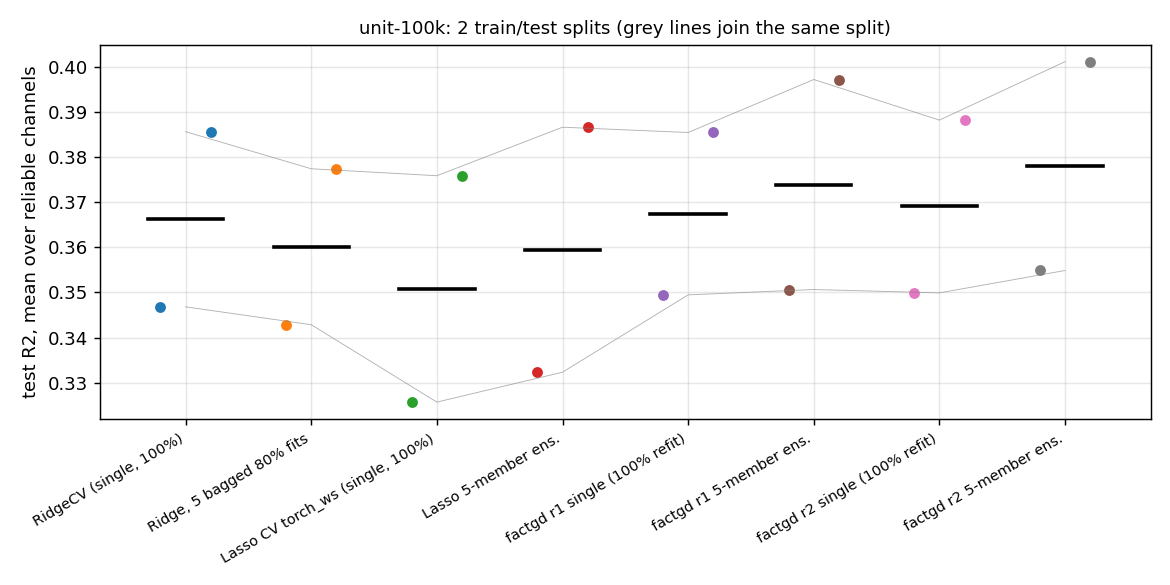
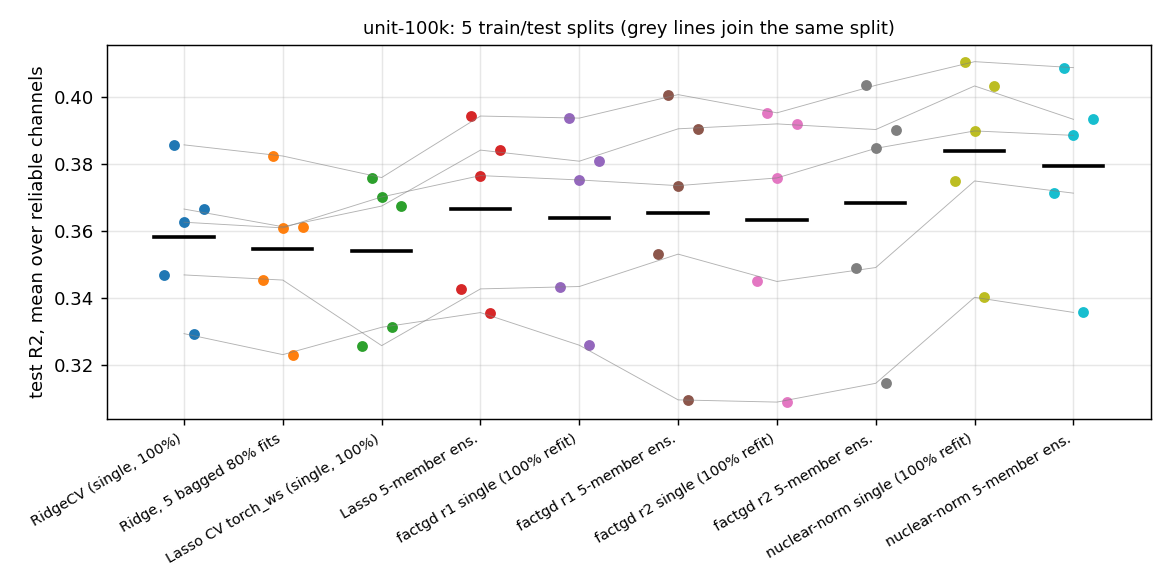
factorized-readout round 2 report: splits, seed vs data stability, ablations, nuclear-norm, unit-800k timing

diff --git a/docs/reports/factorized-readout.md b/docs/reports/factorized-readout.md
@@ -5,6 +5,18 @@ Raw outputs: `STORE/results/factorized/<tier>/` (`STORE` = `/n/holylabs/LABS/kem
 
 ## 0. Summary
 
+**Round 2 (section 9) corrects round 1's factgd claim.**
+- Single model against single model, factgd ties Ridge on layer4 (+0.006, SE 0.004, 5 splits).
+- It beats Ridge on layer3: +0.030 / +0.036 for rank 1 / 2, on 5/5 splits.
+- A convex nuclear-norm low-rank readout is better than both: +0.026 (SE 0.004) on layer4 and +0.066 (SE 0.004)
+  on layer3, on 5/5 splits each. It also has no seed dependence.
+- factgd's rank-1 spatial mask is stable on layer4 (|cos| 0.93 across 80% subsets, 0.78 across disjoint halves)
+  but not on layer3 (0.46-0.72).
+- The feature vector is not reproducible across disjoint halves on either layer (|cos| 0.34-0.40).
+- Recommendation: switch the factorized line to nuclear-norm regression.
+
+Round 1:
+
 - **The Gaussian point readout (dualneuron) is not competitive here.** On `unit-100k` the faithful model
   (BN + ReLU, ELU+1, Poisson) gets test R2 0.265 over the 20 reliable channels (5-member ensemble; single member
   0.212). RidgeCV gets 0.347 and harness Lasso 0.326. The best Gaussian variant, the linear one, gets 0.305.
@@ -194,7 +206,9 @@ sparsity.
    features", this is the sparser answer. Next step: rank-1 with a group-sparse or smooth (not single-point)
    spatial mask, a relaxed refit on the selected channels, and stability measured on channel sets instead of
    (c,h,w) units.
-   (b) *Prediction.* Low-rank space x feature (`factgd`, rank 1-2, proximal L1) beats RidgeCV on both layers
+   (b) *Prediction.* [Round 2, section 9: this compared an ensemble with a single Ridge fit. Single against
+   single it is a tie on layer4 and +0.03 on layer3, and nuclear-norm regression beats it.] Low-rank space x
+   feature (`factgd`, rank 1-2, proximal L1) beats RidgeCV on both layers
    (+0.02 layer4, +0.05 layer3) at 15 s on H200, and is more stable (weight cosine 0.64 on layer4). It is the
    strongest dense baseline found so far and should be added to the leaderboard's reference lines.
 4. Stability is poor for every method (Jaccard <= 0.26). Neither Lasso nor any factorization gives an identifiable
@@ -210,7 +224,320 @@ sparsity.
   probably move into the harness's `build_unit_tiers.py`. Its harness rows were run on a MIG slice and should be
   rerun on a full H200 if they are to be ranked.
 
+## 9. Round 2: is factgd really better than Ridge, and is it stable?
+
+Code: `lassobench/factorized/round2.py` (runs), `summarize_round2.py` (tables, rows, figures), commits `9034aa5`..`19f4752`.
+Raw: `STORE/results/factorized/<tier>/round2/` (and `round2_clip/`, see 9.1). GPU: H200 for every round-2 run.
+Rows: `fact_r2_*`, tag `factorized-readout-round2` (row R2 = split 0 = the tier's own split; split statistics in
+extra metric keys).
+
+### 9.1 Protocol
+
+- **Splits.** 5 train/test splits of the 1028 images, all with 206 test images. Split 0 is the tier's own split.
+  Split k >= 1 is a `RandomState(1000 + k)` permutation, with X columns and Y re-z-scored on that split's training
+  rows. The reliable-channel mask is the tier's (20 channels on both tiers). All penalties, epochs and alphas are
+  chosen inside the training part; the test part is only predicted.
+- **Models per split.** Ridge and Lasso use the harness code paths:
+  - **RidgeCV**: per-target LOO-GCV.
+  - **Ridge bag5**: RidgeCV on each of five `RandomState(m)` 80% subsets, predictions averaged.
+  - **Lasso CV**: `torch_ws.fit_cv` with the harness folds and grid and the min-CV alpha; one fit on all
+    training rows.
+  - **Lasso 5-member ensemble**: per-channel alpha chosen by member validation R2.
+  - **factgd rank r**:
+    1. Penalty grid × 5 members, giving a per-channel gamma* by mean member validation R2 of the pruned model.
+    2. The 5 members retrained at the gamma* vector form the **ensemble**.
+    3. The **single model** is refit on **100%** of the training rows at gamma*, with member 1's learning-rate
+       schedule cut at its best epoch (item 4).
+  - **Nuclear norm**: `min 1/(2n)|y - <X, W>|^2 + lam |W|_*`, where W is the C × HW matrix of each channel.
+    Solved by FISTA with singular-value thresholding. Per-channel lam is chosen by member validation, then the
+    model is refit on 100%.
+- **Variability sources, split 0 only, at the penalty and schedule chosen above.** Each run trains with that
+  fixed schedule and no validation.
+  - (a) Seed: the same 100% of the training rows, init and batch-order seeds 1..8.
+  - (b) Data, init seed 1:
+    - five 80% subsets (each pair shares at least 60% of the rows);
+    - the two **disjoint halves** (`runner.half_split`). This is the honest data-change test.
+  - Ridge, Lasso and nuclear norm are refit at the all-rows per-channel penalties. They are convex and
+    deterministic, so (a) does not apply. Ridge alpha is scaled by n_sub/n; the Lasso and nuclear objectives are
+    1/(2n), so their alpha is not rescaled.
+- **Factor stability, per reliable channel, mean over run pairs.**
+  - Spatial mask and feature vector: rank 1 uses |cos|, which removes sign and scale. Rank 2-3 uses subspace
+    similarity, the mean squared cosine of the principal angles, which removes the rotation between components.
+  - Weight cosine: computed on the reconstructed C × HW weights.
+  - Support Jaccard: on the pruned support; dense models get n/a.
+  - Test-prediction correlation between runs.
+  - Ridge, Lasso and nuclear norm get the same factor treatment through the rank-1 / rank-2 SVD of each channel's
+    C × HW weight matrix.
+- **Layer3 test-set outliers.** Layer3 maps are sparse after the ReLU: 595 of 200k columns are active in at most
+  1% of images. z-scored on the training rows, some test values reach 4,748 even on the tier's own split, and
+  6,460 on splits 1 and 4 (`scripts/dev_fact_diag_split.py`). Per-unit Lasso and Ridge then blow up on some
+  splits: Lasso CV test R2 averages -210 over the 5 splits. For layer3 everything is therefore also run with each
+  test column clipped to its training-row range (`--clip`, training statistics only, `round2_clip/`), and the
+  conclusions use that version. On layer4 the largest test value is 85, so clipping does nothing there and was
+  not run.
+
+Every number below comes from one run of this protocol: 5 splits; 5 members, 8 seeds and 7 subsets on split 0.
+SE across channels = SD of the 20 per-channel differences / sqrt(20). SE across splits = SD of the 5 split-mean
+differences / sqrt(5).
+
+### 9.2 Single model vs Ridge, and ensembles (item 3)
+
+**unit-100k** (layer4, 2048 × 7 × 7). Test R2, mean over the 20 reliable channels.
+
+| model | split 0 | mean ± SD, 5 splits | diff vs RidgeCV, split 0 (SE ch.) | diff vs RidgeCV, 5 splits (SE splits) | splits better | nonzero units |
+|---|---|---|---|---|---|---|
+| RidgeCV (single, 100%) | 0.347 | 0.358 ± 0.021 | — | — | — | dense |
+| Ridge, 5 bagged 80% fits | 0.345 | 0.355 ± 0.022 | -0.002 (0.002) | -0.004 (0.001) | 0/5 | dense |
+| Lasso CV torch_ws (single, 100%) | 0.326 | 0.354 ± 0.024 | -0.021 (0.009) | -0.004 (0.005) | 3/5 | 265 |
+| Lasso 5-member ens. | 0.343 | 0.367 ± 0.026 | -0.004 (0.007) | +0.008 (0.004) | 4/5 | 281 / member |
+| **factgd r1 single (100% refit)** | 0.343 | 0.364 ± 0.028 | -0.003 (0.011) | **+0.006 (0.004)** | 3/5 | 10,597 |
+| factgd r1 5-member ens. | 0.353 | 0.365 ± 0.036 | +0.006 (0.007) | +0.007 (0.007) | 4/5 | 9,305 / member |
+| **factgd r2 single (100% refit)** | 0.345 | 0.363 ± 0.036 | -0.002 (0.009) | **+0.005 (0.008)** | 3/5 | 11,732 |
+| factgd r2 5-member ens. | 0.349 | 0.368 ± 0.036 | +0.002 (0.009) | +0.010 (0.007) | 4/5 | 10,022 / member |
+| **nuclear norm single (100% refit)** | **0.375** | **0.384 ± 0.028** | **+0.028 (0.004)** | **+0.026 (0.004)** | **5/5** | dense, rank 3.9 |
+| nuclear norm 5-member ens. | 0.371 | 0.379 ± 0.028 | +0.024 (0.003) | +0.021 (0.004) | 5/5 | dense |
+| Ridge, one 80% fit | 0.333 | 0.343 ± 0.022 | -0.014 (0.002) | -0.015 (0.001) | 0/5 | dense |
+| Lasso, one 80% member | 0.306 | 0.325 ± 0.024 | -0.041 (0.009) | -0.033 (0.003) | 0/5 | 281 |
+| factgd r1, one 80% member | 0.334 | 0.347 ± 0.039 | -0.012 (0.009) | -0.011 (0.009) | 1/5 | 9,305 |
+| factgd r2, one 80% member | 0.334 | 0.350 ± 0.039 | -0.013 (0.009) | -0.009 (0.009) | 3/5 | 10,022 |
+| nuclear norm, one 80% member | 0.358 | 0.367 ± 0.028 | +0.011 (0.004) | +0.009 (0.004) | 4/5 | dense |
+
+Ensemble against ensemble: factgd r1 ens5 minus Ridge bag5 is +0.011 (SE across splits 0.007); r2: +0.014 (0.007).
+
+**unit-200k-l3** (layer3, 1024 × 14 × 14), test columns clipped to training ranges (`round2_clip/`). The
+layer3 split runs used a MIG slice (A100 3g.20gb); timings there are not comparable.
+
+| model | split 0 | mean ± SD, 5 splits | diff vs RidgeCV, split 0 (SE ch.) | diff vs RidgeCV, 5 splits (SE splits) | splits better | nonzero units |
+|---|---|---|---|---|---|---|
+| RidgeCV (single, 100%) | 0.303 | 0.324 ± 0.016 | — | — | — | dense |
+| Ridge, 5 bagged 80% fits | 0.300 | 0.317 ± 0.016 | -0.003 (0.002) | -0.007 (0.001) | 0/5 | dense |
+| Lasso CV torch_ws (single, 100%) | 0.248 | 0.288 ± 0.025 | -0.055 (0.016) | -0.036 (0.006) | 0/5 | 364 |
+| Lasso 5-member ens. | 0.274 | 0.307 ± 0.027 | -0.030 (0.009) | -0.017 (0.006) | 1/5 | 352 / member |
+| **factgd r1 single (100% refit)** | 0.320 | 0.353 ± 0.033 | +0.017 (0.015) | **+0.030 (0.009)** | 5/5 | 21,385 |
+| factgd r1 5-member ens. | 0.350 | 0.373 ± 0.023 | +0.047 (0.009) | +0.050 (0.004) | 5/5 | 18,185 / member |
+| **factgd r2 single (100% refit)** | 0.324 | 0.360 ± 0.025 | +0.021 (0.014) | **+0.036 (0.005)** | 5/5 | 19,884 |
+| factgd r2 5-member ens. | 0.353 | 0.379 ± 0.025 | +0.049 (0.011) | +0.055 (0.005) | 5/5 | 17,868 / member |
+| **nuclear norm single (100% refit)** | **0.365** | **0.389 ± 0.022** | **+0.061 (0.008)** | **+0.066 (0.004)** | **5/5** | dense, rank 4.4 |
+| nuclear norm 5-member ens. | 0.362 | 0.385 ± 0.022 | +0.059 (0.007) | +0.061 (0.004) | 5/5 | dense |
+| Ridge, one 80% fit | 0.289 | 0.306 ± 0.016 | -0.014 (0.002) | -0.018 (0.002) | 0/5 | dense |
+| Lasso, one 80% member | 0.227 | 0.255 ± 0.026 | -0.076 (0.010) | -0.068 (0.006) | 0/5 | 352 |
+| factgd r1, one 80% member | 0.306 | 0.333 ± 0.025 | +0.002 (0.011) | +0.009 (0.005) | 4/5 | 18,185 |
+| factgd r2, one 80% member | 0.316 | 0.344 ± 0.026 | +0.012 (0.012) | +0.020 (0.005) | 5/5 | 17,868 |
+| nuclear norm, one 80% member | 0.351 | 0.373 ± 0.022 | +0.047 (0.007) | +0.049 (0.004) | 5/5 | dense |
+
+Ensemble against ensemble: factgd r1 ens5 minus Ridge bag5 is +0.056 (SE across splits 0.004); r2: +0.061 (0.004).
+
+The same layer3 runs without clipping (`round2/`) show the outlier problem:
+- RidgeCV: 0.246 ± 0.098 over splits.
+- Lasso CV: -210 ± 301, below -100 on two splits.
+- factgd is almost unaffected: r1 single 0.352 ± 0.034, r2 single 0.358 ± 0.026.
+
+The factorized readout shares one feature vector across positions, so it puts little weight on rare,
+single-position units. A per-unit model can bet on such a unit and then blow up on test images where it fires.
+Even on the tier's own split, clipping raises Lasso CV from 0.221 to 0.248. The layer3 harness rows are therefore
+affected by this too.
+
+![splits unit-100k](../../figures/factorized/unit-100k_round2_splits.png)
+![splits unit-200k-l3, clipped](../../figures/factorized/unit-200k-l3_round2_splits.png)
+
+### 9.3 Stability: seeds vs data (items 1, 2)
+
+**unit-100k**, split 0. Similarities: |cos| for rank 1; subspace similarity for rank 2-3 and for the rank-2 SVD
+rows. Ridge, Lasso and nuclear-norm factors are the SVD of their C × HW weights.
+
+| model / source | runs | test R2 | spatial mask | feature vector | weight cos. | support Jaccard | pred. corr. |
+|---|---|---|---|---|---|---|---|
+| factgd r1, seeds | 8 | 0.346 ± 0.006 | 0.956 | 0.824 | 0.789 | 0.381 | 0.961 |
+| factgd r1, 80% subsets | 5 | 0.329 ± 0.007 | 0.925 | 0.763 | 0.718 | 0.316 | 0.936 |
+| factgd r1, disjoint halves | 2 | 0.243 ± 0.054 | 0.775 | 0.401 | 0.338 | 0.137 | 0.755 |
+| factgd r2, seeds | 8 | 0.343 ± 0.007 | 0.506 | 0.427 | 0.763 | 0.356 | 0.953 |
+| factgd r2, 80% subsets | 5 | 0.329 ± 0.009 | 0.539 | 0.394 | 0.703 | 0.310 | 0.958 |
+| factgd r2, halves | 2 | 0.265 ± 0.029 | 0.414 | 0.167 | 0.373 | 0.159 | 0.853 |
+| factgd r3, seeds | 8 | 0.355 ± 0.006 | 0.500 | 0.512 | 0.818 | 0.355 | 0.969 |
+| factgd r3, halves | 2 | 0.272 ± 0.026 | 0.365 | 0.188 | 0.304 | 0.104 | 0.789 |
+| Ridge (SVD r1), 80% subsets | 5 | 0.333 ± 0.007 | 0.989 | 0.916 | 0.824 | n/a | 0.957 |
+| Ridge (SVD r1), halves | 2 | 0.299 ± 0.010 | 0.936 | 0.570 | 0.172 | n/a | 0.776 |
+| Ridge (SVD r2), halves | 2 | 0.299 ± 0.010 | 0.702 | 0.203 | 0.172 | n/a | 0.776 |
+| Lasso (SVD r1), 80% subsets | 5 | 0.310 ± 0.008 | 0.649 | 0.474 | 0.462 | 0.179 | 0.890 |
+| Lasso (SVD r1), halves | 2 | 0.269 ± 0.009 | 0.192 | 0.015 | 0.021 | 0.006 | 0.681 |
+| nuclear (SVD r1), 80% subsets | 5 | 0.358 ± 0.001 | 0.976 | 0.862 | 0.830 | n/a | 0.962 |
+| nuclear (SVD r1), halves | 2 | 0.309 ± 0.018 | 0.877 | 0.342 | 0.269 | n/a | 0.787 |
+| nuclear (SVD r2), halves | 2 | 0.309 ± 0.018 | 0.607 | 0.079 | 0.269 | n/a | 0.787 |
+
+Cross-method: the factgd r1 mask has |cos| 0.914 with Ridge's top spatial singular vector, and its feature vector
+0.518 with Ridge's top feature singular vector.
+
+**unit-200k-l3**, split 0. The factor, weight and support columns use training data only, so clipping does not
+change them. The test-R2 and prediction-correlation columns are unclipped.
+
+| model / source | runs | test R2 | spatial mask | feature vector | weight cos. | support Jaccard | pred. corr. |
+|---|---|---|---|---|---|---|---|
+| factgd r1, seeds | 8 | 0.315 ± 0.015 | 0.644 | 0.584 | 0.421 | 0.221 | 0.860 |
+| factgd r1, 80% subsets | 5 | 0.286 ± 0.036 | 0.716 | 0.633 | 0.493 | 0.233 | 0.887 |
+| factgd r1, halves | 2 | 0.218 ± 0.033 | 0.458 | 0.341 | 0.177 | 0.090 | 0.670 |
+| factgd r2, seeds | 8 | 0.319 ± 0.007 | 0.490 | 0.434 | 0.538 | 0.275 | 0.915 |
+| factgd r2, 80% subsets | 5 | 0.306 ± 0.007 | 0.513 | 0.435 | 0.520 | 0.238 | 0.885 |
+| factgd r2, halves | 2 | 0.233 ± 0.031 | 0.273 | 0.182 | 0.224 | 0.102 | 0.644 |
+| factgd r3, seeds | 8 | 0.320 ± 0.010 | 0.300 | 0.276 | 0.493 | 0.254 | 0.910 |
+| factgd r3, halves | 2 | 0.262 ± 0.013 | 0.165 | 0.118 | 0.220 | 0.107 | 0.763 |
+| Ridge (SVD r1), 80% subsets | 5 | 0.288 ± 0.004 | 0.989 | 0.928 | 0.822 | n/a | 0.953 |
+| Ridge (SVD r1), halves | 2 | 0.254 ± 0.003 | 0.945 | 0.605 | 0.147 | n/a | 0.741 |
+| Lasso (SVD r1), 80% subsets | 5 | 0.208 ± 0.016 | 0.413 | 0.419 | 0.398 | 0.147 | 0.823 |
+| Lasso (SVD r1), halves | 2 | 0.126 ± 0.046 | 0.028 | 0.050 | 0.010 | 0.003 | 0.569 |
+| nuclear (SVD r1), 80% subsets | 5 | 0.348 ± 0.006 | 0.963 | 0.874 | 0.826 | n/a | 0.961 |
+| nuclear (SVD r1), halves | 2 | 0.307 ± 0.003 | 0.836 | 0.400 | 0.307 | n/a | 0.793 |
+
+Cross-method: the factgd r1 mask has |cos| 0.675 with Ridge's top spatial singular vector, and its feature vector
+0.547 with Ridge's top feature singular vector.
+
+![stability unit-100k](../../figures/factorized/unit-100k_round2_stability.png)
+![stability unit-200k-l3](../../figures/factorized/unit-200k-l3_round2_stability.png)
+
+### 9.4 Ablations: why it works (item 5), split 0
+
+| variant | unit-100k single | ens5 | unit-200k-l3 single | ens5 |
+|---|---|---|---|---|
+| RidgeCV | 0.347 | — | 0.303 | — |
+| factgd r1 (L1 on mask and features) | 0.343 | 0.353 | 0.317 | 0.347 |
+| factgd r2 | 0.345 | 0.349 | 0.319 | 0.351 |
+| factgd r3 | 0.362 | 0.358 | 0.318 | 0.350 |
+| r1, L1 on features only | 0.311 | 0.326 | 0.197 | 0.302 |
+| r1, L1 on mask only | 0.315 | 0.339 | 0.268 | 0.325 |
+| r1, no L1 | 0.271 | 0.330 | 0.075 | 0.253 |
+| r2, no L1 | 0.240 | 0.326 | -0.064 | 0.254 |
+| r1, non-negative mask | 0.345 | 0.348 | 0.324 | 0.338 |
+| r2, non-negative mask | 0.345 | 0.341 | 0.331 | 0.345 |
+| r1, smooth mask (roughness penalty) | 0.338 | 0.337 | 0.325 | 0.341 |
+| r1, non-negative + smooth | 0.341 | 0.340 | 0.327 | 0.344 |
+| Ridge, then truncated SVD, rank 1 | 0.303 | — | 0.219 | — |
+| Ridge, then truncated SVD, rank 2 | 0.345 | — | 0.264 | — |
+| Ridge, then truncated SVD, rank 3 | 0.350 | — | 0.289 | — |
+| **nuclear norm (convex, rank by CV)** | **0.375** | 0.371 | **0.364** | 0.361 |
+
+The layer3 column is the tier's own split without clipping. Its Ridge and Lasso values match the harness rows
+(0.303 and 0.221). SE of a single-model difference vs Ridge on split 0 is
+0.004-0.018 (layer4) and 0.008-0.037 (layer3); see `summary.json`.
+
+### 9.5 Scale check: unit-800k (layer1, 256 × 56 × 56 = 802,816 maps, 779,947 kept columns) (item 6)
+
+- **Cost.** On an H200, factgd rank 1 trains one member in about 0.4 s after warm-up (23 epochs, 0.018 s per
+  epoch). The full selection protocol takes 21 s for rank 1 and 25 s for rank 2: 17 gammas × 5 members, then
+  5 retrained members and 1 refit, 91 fits in all. Peak GPU memory is 8.9 GB, and the data on the GPU is 2.6 GB.
+- **Accuracy.** Test R2 on the reliable channels is poor:
+  - factgd r1: 0.025 single, 0.031 ensemble.
+  - factgd r2: 0.026 single, 0.049 ensemble.
+  - The harness rows on the same tier give RidgeCV 0.125 and Lasso CV 0.033.
+
+  So factgd runs at this scale without trouble but does not help on this early layer. No channel chose the top
+  gamma, so the grid was not the limit.
+- **Nuclear norm was not run at 800k.** Its SVT uses the HW × HW Gram, which is 3136 × 3136 here. It should switch
+  to the C × C side (256 × 256) first. This is a small change and a follow-up.
+- Raw output: `STORE/results/factorized/unit-800k/round2/timing.npz`.
+
+### 9.6 Answers
+
+**1. Is factgd better than Ridge, single model against single model?**
+- **Layer4 (unit-100k): no.** The gain is within noise:
+  - rank 1: +0.006 R2 (SE 0.004 across splits);
+  - rank 2: +0.005 (SE 0.008);
+  - on the tier's own split, rank 1 is -0.003 (SE 0.011 across channels).
+
+  Round 1's "+0.02 over Ridge" compared a 5-member ensemble with a single Ridge fit. Ensemble against ensemble,
+  the gain over bagged Ridge is +0.011 / +0.014 (SE 0.007), under 2 SE.
+- **Layer3 (unit-200k-l3, clipped): yes**, better on all 5 splits:
+  - rank 1: +0.030 (SE 0.009);
+  - rank 2: +0.036 (SE 0.005);
+  - ensembles: +0.056 / +0.061 over bagged Ridge (SE 0.004).
+
+  This is the higher-resolution map (14 × 14), where a per-unit Ridge has 4× more spatial copies of each feature
+  to spread its weight over.
+- **Gradient descent is not needed for this gain.** The convex nuclear-norm model, with rank chosen per channel by
+  validation (about 4), is the best single model measured:
+  - Layer4: +0.026 (SE 0.004), better on 5/5 splits.
+  - Layer3 (clipped): +0.066 (SE 0.004), better on 5/5 splits. That is about twice factgd's gain.
+
+  Ridge followed by a truncated SVD is worse than Ridge (rank 1: 0.303 / 0.219). The low-rank structure has to be
+  imposed during the fit, not afterwards.
+
+**2. Is what it infers stable?** Rank 1 is the only identifiable case. Values are |cos| between runs on reliable
+channels, in the order seeds / 80% subsets / disjoint halves.
+- **Spatial mask.**
+  - Layer4: 0.956 / 0.925 / 0.775. Stable.
+  - Layer3 (196 positions): 0.644 / 0.716 / 0.458. Not stable, even under a seed change.
+- **Feature vector.**
+  - Layer4: 0.824 / 0.763 / 0.401.
+  - Layer3: 0.584 / 0.633 / 0.341.
+  - Across disjoint halves (411 images each) the feature vector is not reproducible on either layer.
+- **Seed vs data.**
+  - On layer4, data changes move the factors more than seed changes do.
+  - On layer3, the seed alone moves them as much as an 80% data subset does, or more (mask 0.644 across seeds vs
+    0.716 across subsets). Here non-convexity is itself a main source of instability.
+- **Rank 2-3.** The individual components are not identified: subspace similarity is 0.3-0.5 even across seeds.
+  Their product W and the predictions are stable (prediction correlation across seeds 0.95-0.97 on layer4,
+  0.86-0.92 on layer3).
+- **Compared with the convex models' rank-1 SVD factors, factgd's factors are less stable.** Values are spatial,
+  then feature, for 80% subsets / halves:
+
+  | model | layer4 | layer3 |
+  |---|---|---|
+  | Ridge | 0.989 / 0.936, then 0.916 / 0.570 | 0.989 / 0.945, then 0.928 / 0.605 |
+  | nuclear norm | 0.976 / 0.877, then 0.862 / 0.342 | 0.963 / 0.836, then 0.874 / 0.400 |
+
+  On layer4, factgd's mask is close to Ridge's top spatial singular vector (|cos| 0.91). The rank-1 mask is
+  therefore mostly what Ridge already contains, recovered less stably.
+- **Lasso is the least stable model** across halves: support Jaccard 0.003-0.006, weight cosine 0.01-0.02.
+- **Predictions are more stable than any parameter.** Test-prediction correlation across disjoint halves is:
+  - factgd: 0.64-0.85;
+  - Ridge: 0.74-0.78;
+  - nuclear norm: 0.79;
+  - Lasso: 0.57-0.68.
+
+**3. Why it works (ablations, split 0).**
+- L1 on both factors is required. Dropping it from either factor costs 0.02-0.03 R2 single on layer4 and
+  0.01-0.12 on layer3. With no L1 at all, R2 falls to 0.24-0.27 single (layer4) and below 0.08 (layer3).
+- A non-negative or smooth mask does not change layer4 (within ±0.008). On layer3 it gives +0.007 to +0.012
+  single, which is under 1 SE.
+- Rank 3 is the best factgd rank on layer4 (0.362 single). The nuclear-norm model selects about rank 4. Rank 1-2
+  is too low for prediction.
+
+**4. Recommendation.**
+- **Do not keep factgd as the main factorized line in its current form. Replace it with nuclear-norm-regularized
+  regression**, a convex low-rank readout per channel with rank chosen by CV:
+  - It has the best single-model R2 on both layers.
+  - It needs no seeds, so the single-vs-single comparison is clean.
+  - Its leading spatial and feature factors are more stable than factgd's.
+- **What factgd still offers:**
+  - Speed: 20 s for the whole protocol even at 800k units, against about 7 min per split for the unoptimized
+    FISTA nuclear-norm solver on layer4 and 24 min on layer3.
+  - Sparse factors: about 10k-20k nonzero units, where the nuclear-norm fit is dense.
+- **Next steps:**
+  - A faster nuclear-norm solver (SVT on the smaller Gram side, warm starts, fewer lambdas).
+  - Low-rank + sparse (nuclear + L1) if a sparse unit-basis readout is still wanted.
+  - Report only rank-1 factors as interpretable. Even those carry a stable spatial mask only on layer4, and a
+    feature vector that is not reproducible across disjoint halves on either layer.
+- **Layer3 data issue:** test-time outliers on the sparse layer3 maps break per-unit linear readouts. If layer3
+  tiers are kept, the tier builder should clip (or drop near-constant columns), and the harness rows should be
+  rerun.
+
+All round-2 numbers come from one run of each protocol (5 splits; 5 members, 8 seeds and 7 subsets on split 0).
+The split SDs and SEs are the only between-run spreads measured.
+
 ## Reproduce
+
+Round 2:
+
+```
+sbatch -p gpu_h200 slurm/fact_round2.sh --tier unit-100k --parts splits,stab,ablate
+for k in 0 1 2 3 4; do sbatch -p gpu_h200 slurm/fact_round2.sh --tier unit-100k --parts nuclear --splits $k; done
+sbatch -p gpu_h200 slurm/fact_round2.sh --tier unit-200k-l3 --parts splits,stab,ablate      # unclipped
+sbatch -p gpu_h200 slurm/fact_round2.sh --tier unit-200k-l3 --parts nuclear --splits 0      # nuclear stability
+for k in 0 1 2 3 4; do sbatch -p gpu_h200 slurm/fact_round2.sh --tier unit-200k-l3 --parts splits,nuclear --splits $k --clip; done
+sbatch -p gpu_h200 slurm/fact_round2.sh --tier unit-800k --parts timing
+sbatch slurm/fact_cpu.sh -m lassobench.factorized.summarize_round2 --tier unit-100k --write-rows
+bash scripts/dev_fact_r2_post.sh                                                            # l3 tables, rows, figures
+```
+
+Round 1:
 
 ```
 sbatch -p gpu_test slurm/fact_build.sh                                   # layer3 maps + tier unit-200k-l3
